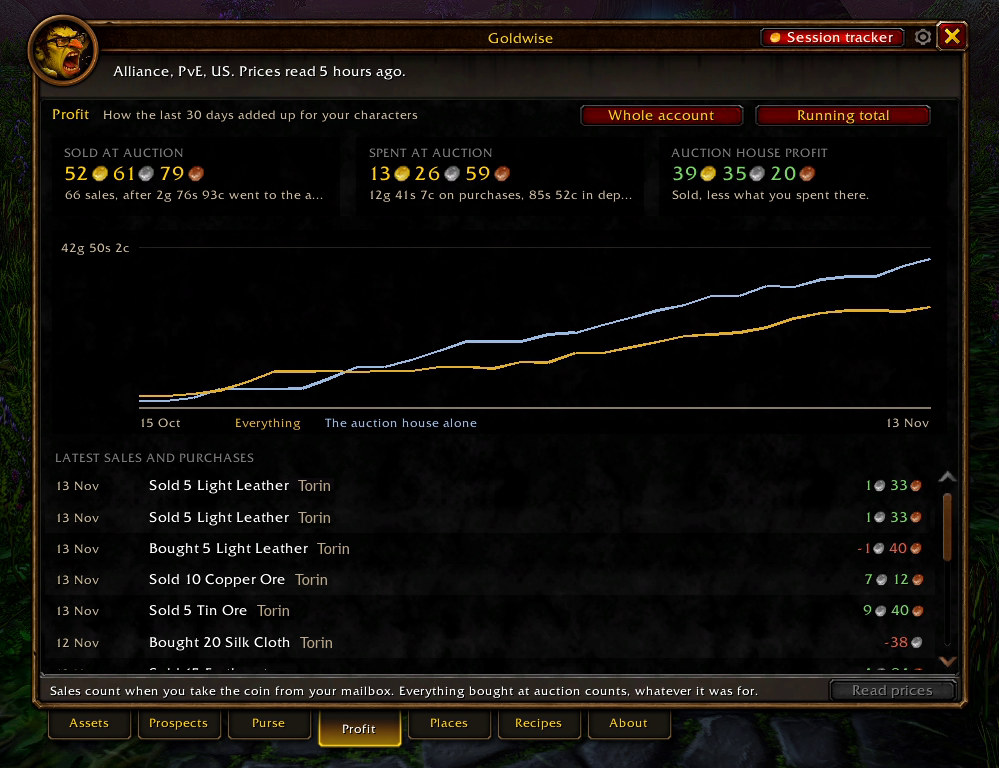
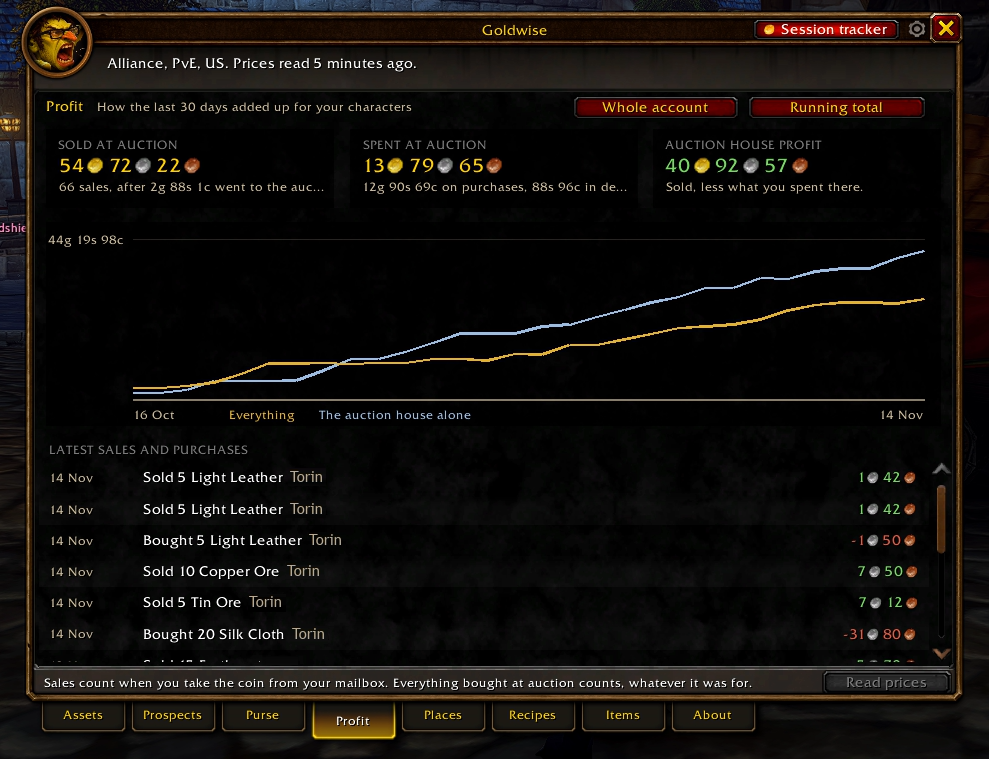
Retake the Profit and Recipes pictures for the README

diff --git a/README.md b/README.md
@@ -210,7 +210,7 @@ after the auction house's cut, and the profit, with any deposits lost on
 listings that didn't sell taken off. Goldwise follows each one from the
 vendor to its sale by itself.
 
-![The Recipes tab](docs/images/recipes.png)
+![The Recipes tab: recipes to get on the left, and recipes worth reselling on the right](docs/images/recipes.png)
 
 ### The session tracker: how this sitting is going
 
